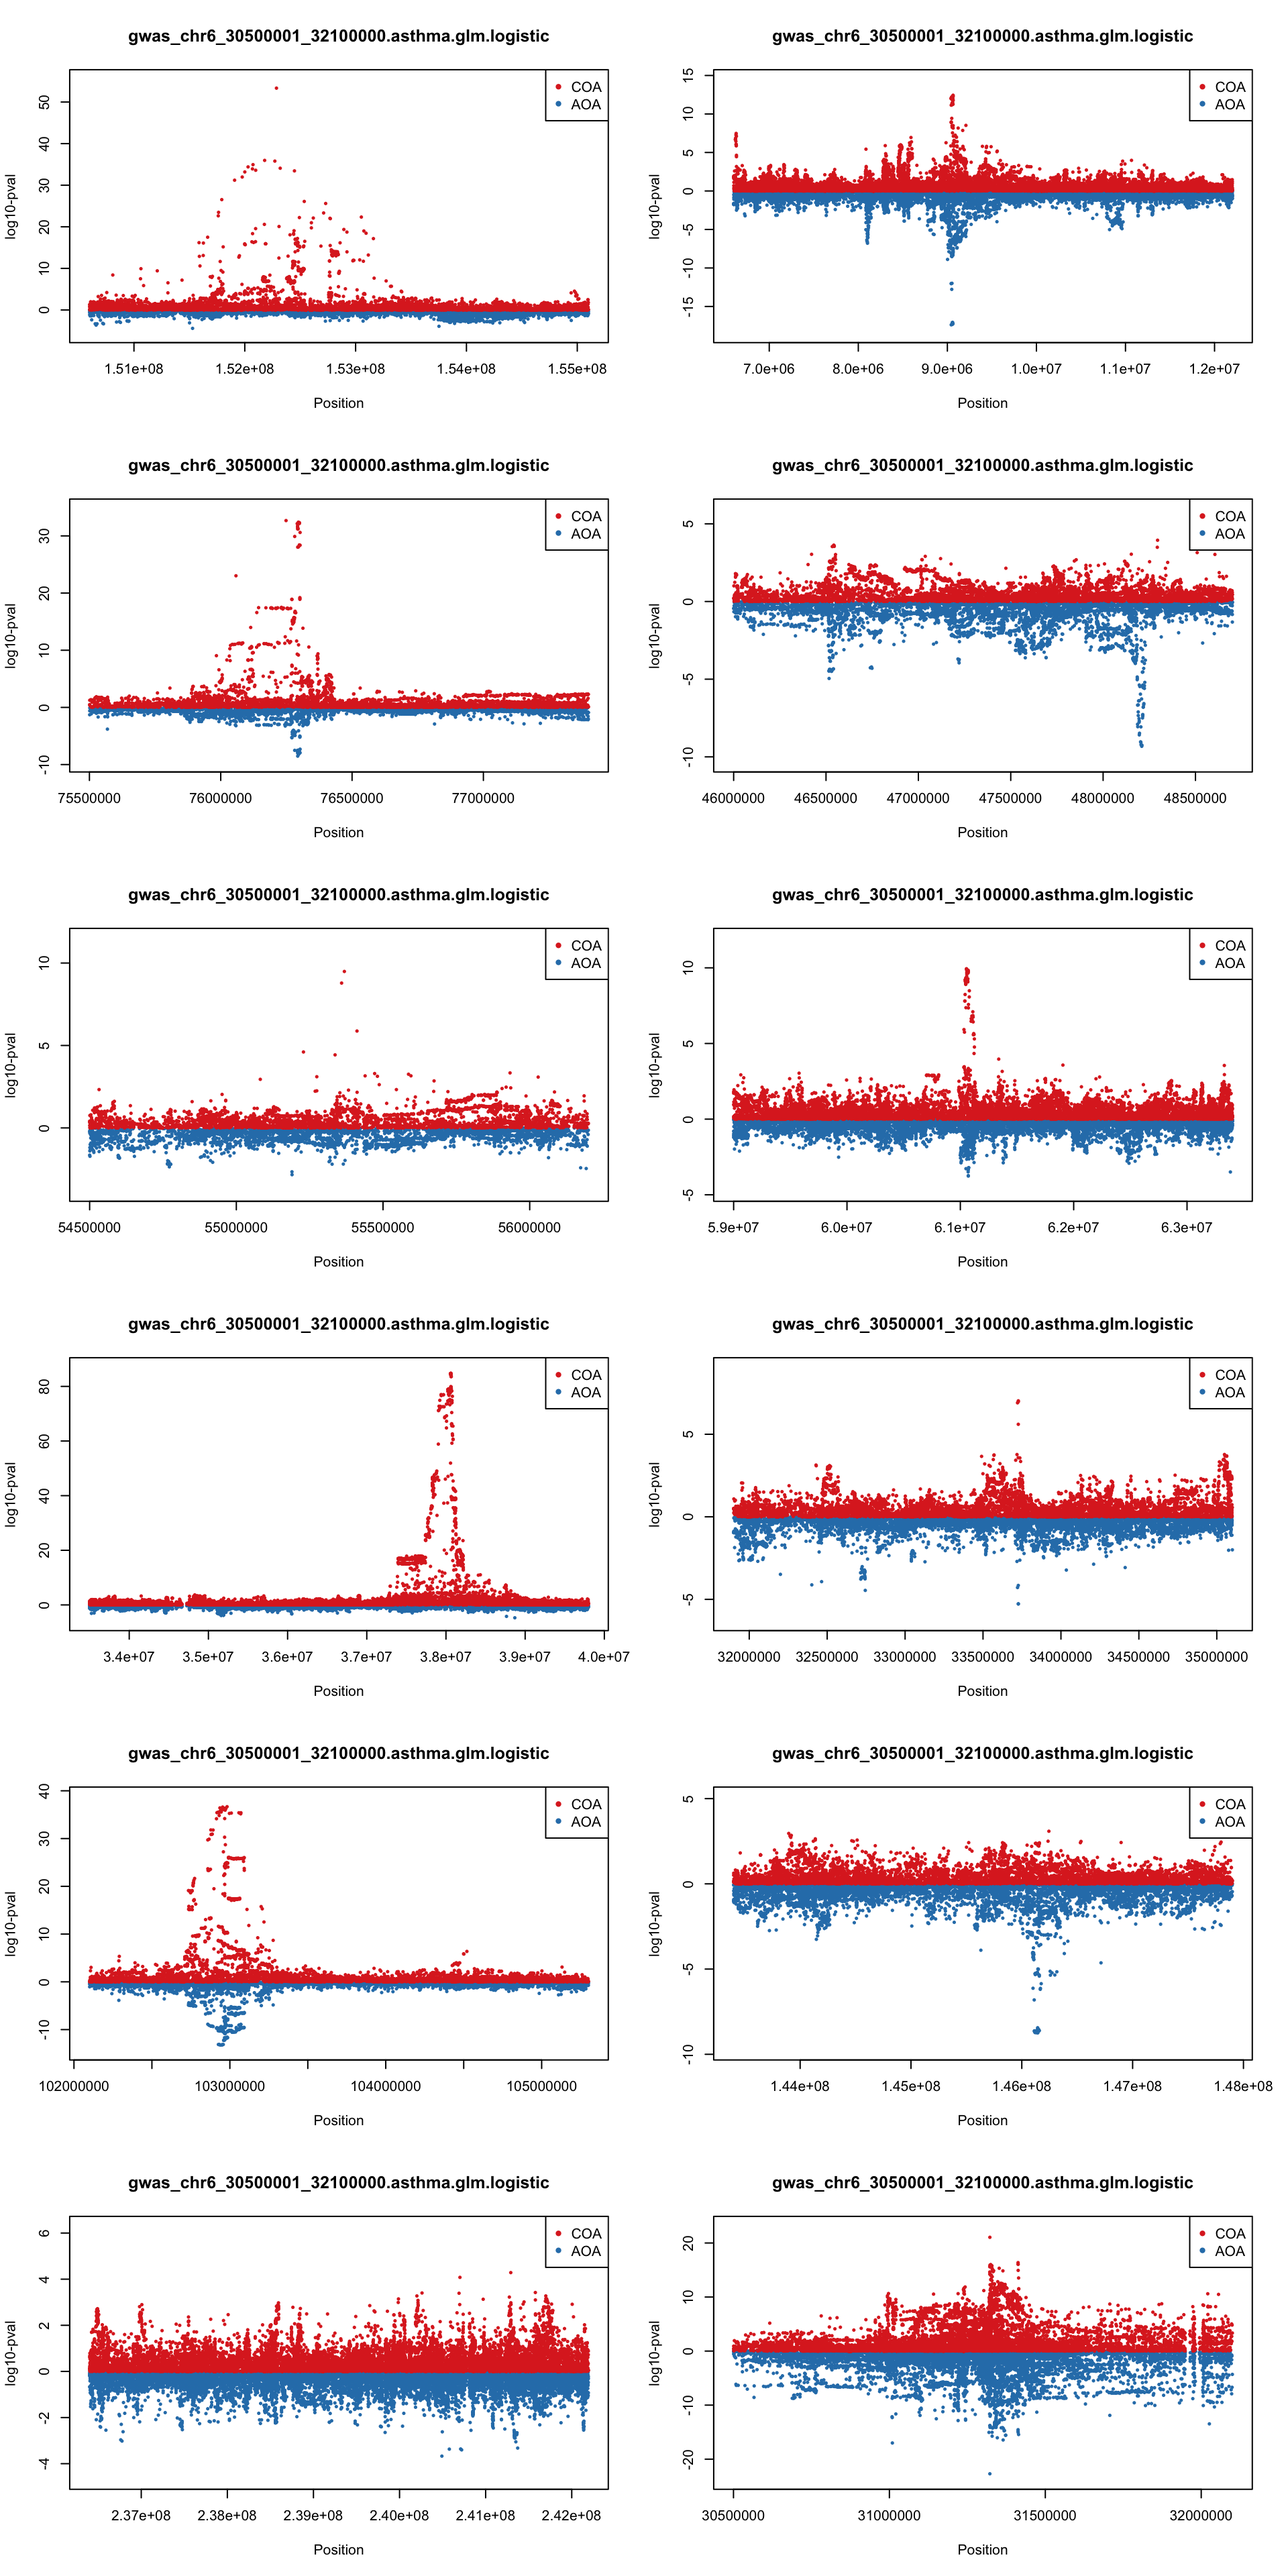
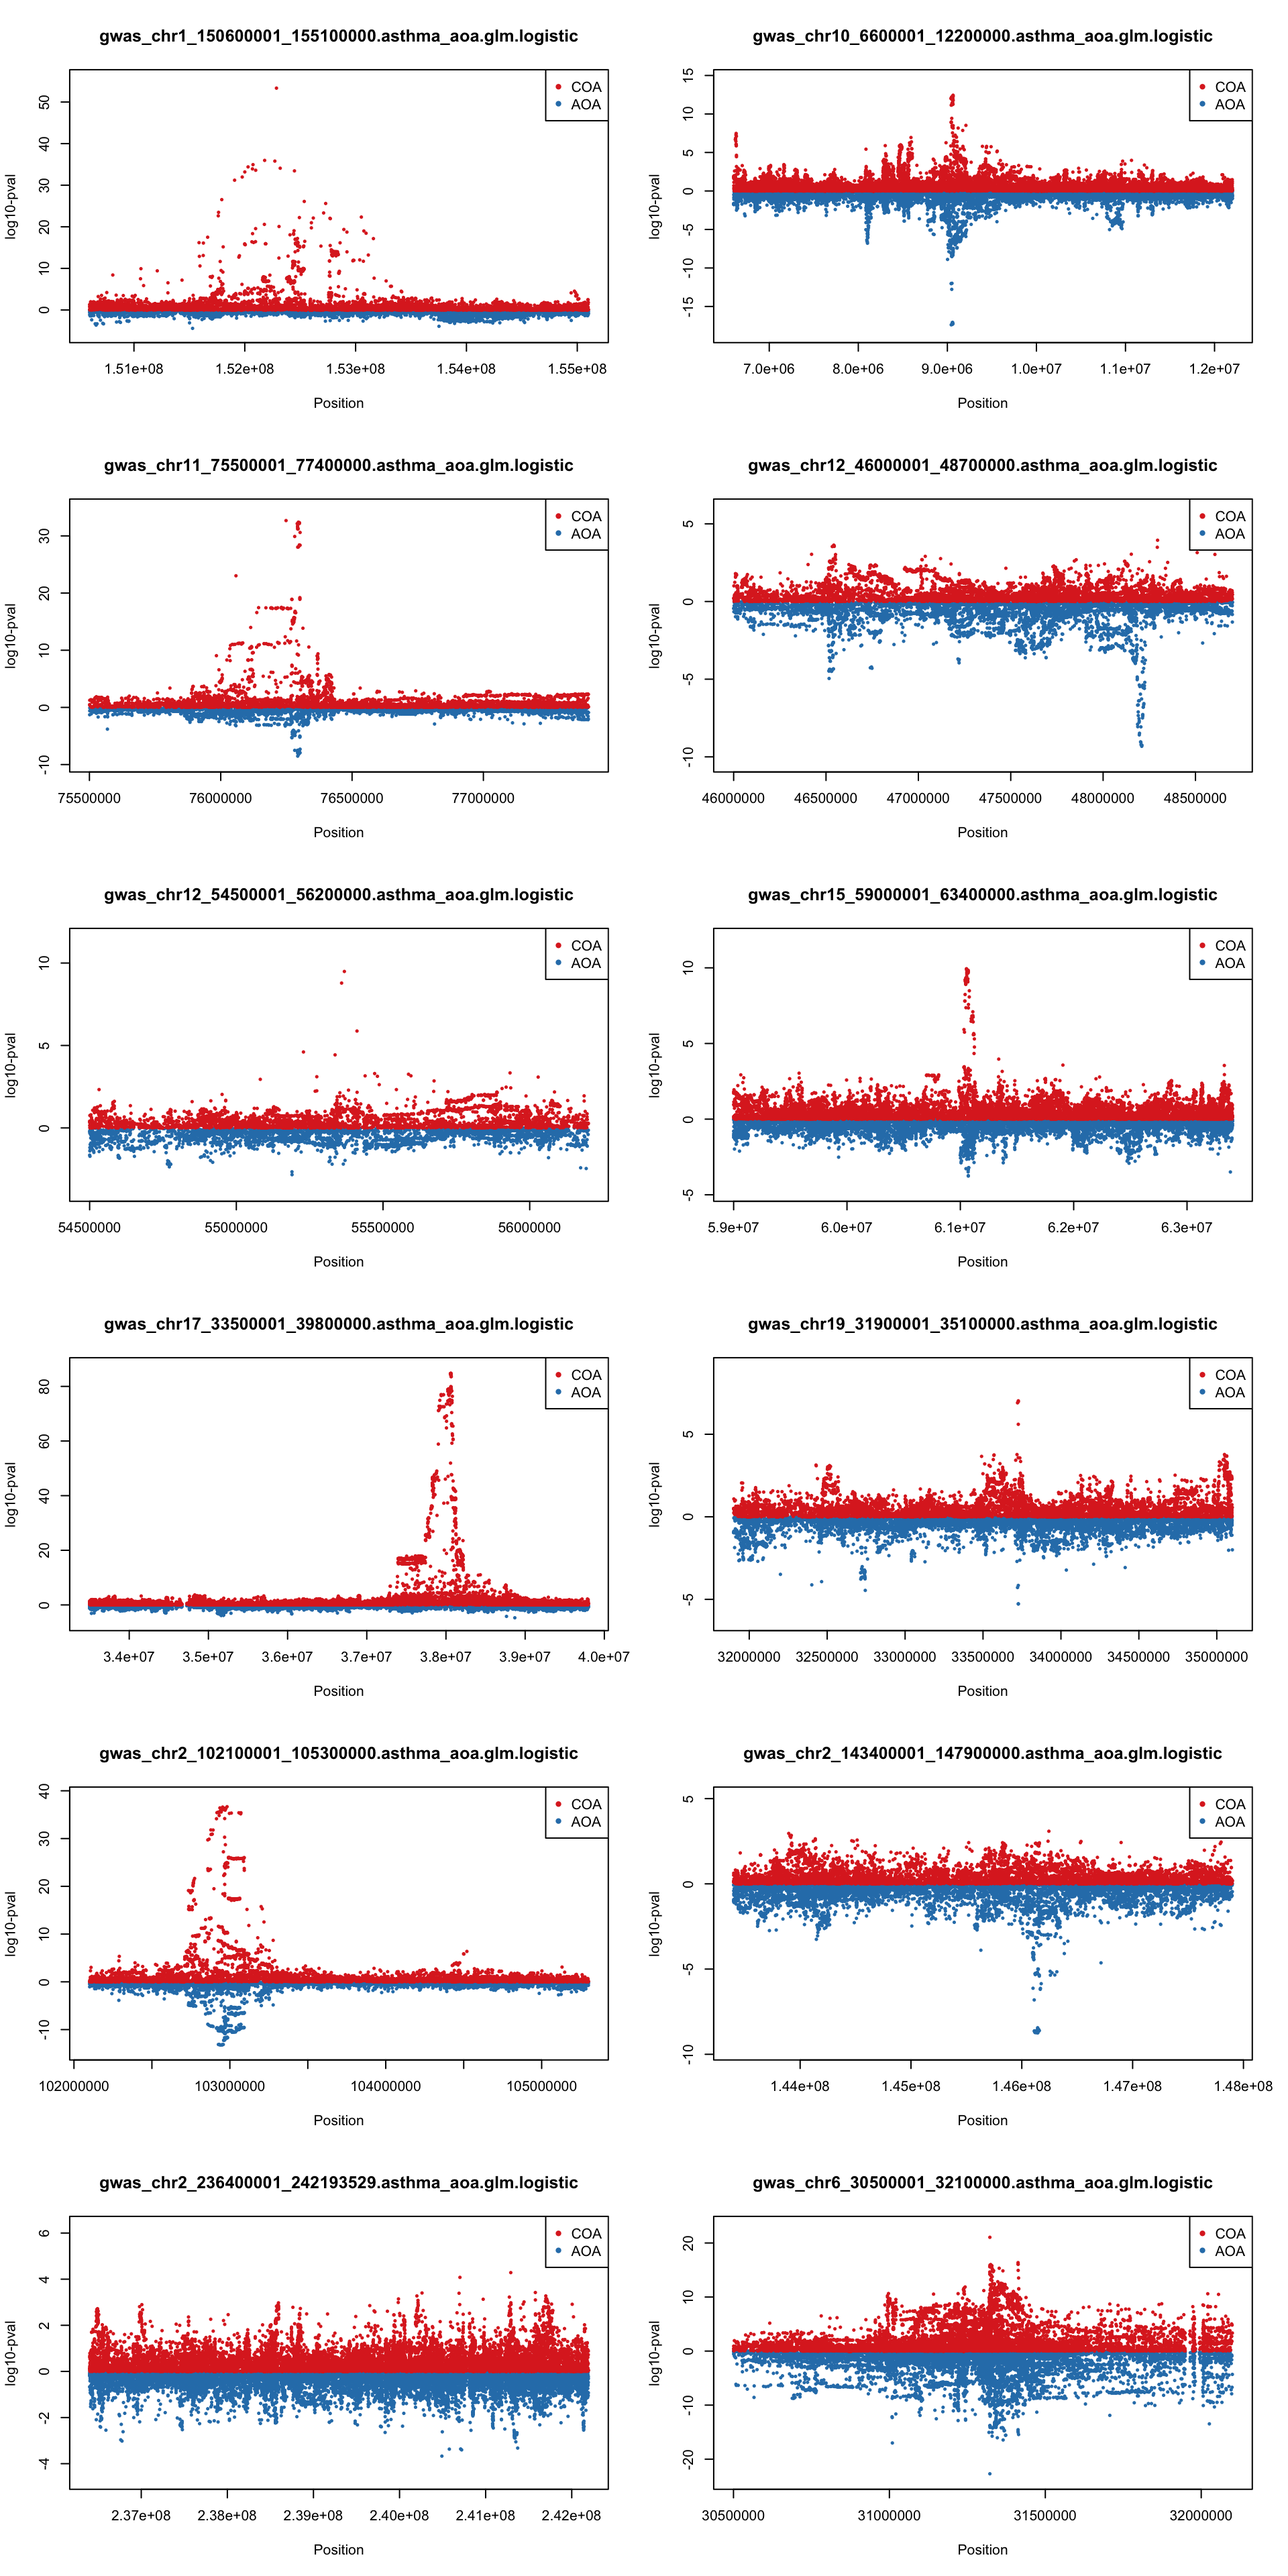
Build site.

diff --git a/docs/logistic_gwas_asthma.html b/docs/logistic_gwas_asthma.html
@@ -475,16 +475,16 @@ This reproducible <a href="http://rmarkdown.rstudio.com">R Markdown</a> analysis
 <div class="panel panel-default">
 <div class="panel-heading">
 <p class="panel-title">
-<a data-toggle="collapse" data-parent="#workflowr-checks" href="#strongRepositoryversionstrongahrefhttpsgithubcomyunqiyang0215survivaldataanalysistree2c785c777b1f59389775331ef323bcc0495cdb8atargetblank2c785c7a"> <span class="glyphicon glyphicon-ok text-success" aria-hidden="true"></span> <strong>Repository version:</strong> <a href="https://github.com/yunqiyang0215/survival-data-analysis/tree/2c785c777b1f59389775331ef323bcc0495cdb8a" target="_blank">2c785c7</a> </a>
+<a data-toggle="collapse" data-parent="#workflowr-checks" href="#strongRepositoryversionstrongahrefhttpsgithubcomyunqiyang0215survivaldataanalysistreef9fc5d95271e85f23fead53434da178a8e7b2a2ctargetblankf9fc5d9a"> <span class="glyphicon glyphicon-ok text-success" aria-hidden="true"></span> <strong>Repository version:</strong> <a href="https://github.com/yunqiyang0215/survival-data-analysis/tree/f9fc5d95271e85f23fead53434da178a8e7b2a2c" target="_blank">f9fc5d9</a> </a>
 </p>
 </div>
[2 lines of base64/hex data omitted]
 <div class="panel-body">
 <p>
 Great! You are using Git for version control. Tracking code development and connecting the code version to the results is critical for reproducibility.
 </p>
 <p>
-The results in this page were generated with repository version <a href="https://github.com/yunqiyang0215/survival-data-analysis/tree/2c785c777b1f59389775331ef323bcc0495cdb8a" target="_blank">2c785c7</a>. See the <em>Past versions</em> tab to see a history of the changes made to the R Markdown and HTML files.
+The results in this page were generated with repository version <a href="https://github.com/yunqiyang0215/survival-data-analysis/tree/f9fc5d95271e85f23fead53434da178a8e7b2a2c" target="_blank">f9fc5d9</a>. See the <em>Past versions</em> tab to see a history of the changes made to the R Markdown and HTML files.
 </p>
 <p>
 Note that you need to be careful to ensure that all relevant files for the analysis have been committed to Git prior to generating the results (you can use <code>wflow_publish</code> or <code>wflow_git_commit</code>). workflowr only checks the R Markdown file, but you know if there are other scripts or data files that it depends on. Below is the status of the Git repository when the results were generated:
@@ -532,6 +532,40 @@ Message
 </tr>
 </thead>
 <tbody>
+<tr>
+<td>
+Rmd
+</td>
+<td>
+<a href="https://github.com/yunqiyang0215/survival-data-analysis/blob/f9fc5d95271e85f23fead53434da178a8e7b2a2c/analysis/logistic_gwas_asthma.Rmd" target="_blank">f9fc5d9</a>
+</td>
+<td>
+yunqiyang0215
+</td>
+<td>
+2024-06-13
+</td>
+<td>
+wflow_publish("analysis/logistic_gwas_asthma.Rmd")
+</td>
+</tr>
+<tr>
+<td>
+html
+</td>
+<td>
+<a href="https://rawcdn.githack.com/yunqiyang0215/survival-data-analysis/df86570670756614c9e43e068354217a758e184a/docs/logistic_gwas_asthma.html" target="_blank">df86570</a>
+</td>
+<td>
+yunqiyang0215
+</td>
+<td>
+2024-06-13
+</td>
+<td>
+Build site.
+</td>
+</tr>
 <tr>
 <td>
 Rmd
@@ -646,7 +680,7 @@ yunqiyang0215
 for (i in 1:length(file.aoa)){
   region.aoa = file.aoa[i]
   region.coa = file.coa[i]
-  region_name = strsplit(region, &quot;/&quot;)[[1]][9]
+  region_name = strsplit(region.aoa, &quot;/&quot;)[[1]][9]
   gwas.aoa = read.csv(region.aoa, header = TRUE, sep = &quot;\t&quot;)
   gwas.coa = read.csv(region.coa, header = TRUE, sep = &quot;\t&quot;)
   ymin = min(log10(gwas.aoa$P)) - 1
@@ -678,6 +712,17 @@ Date
 </tr>
 </thead>
 <tbody>
+<tr>
+<td>
+<a href="https://github.com/yunqiyang0215/survival-data-analysis/blob/df86570670756614c9e43e068354217a758e184a/docs/figure/logistic_gwas_asthma.Rmd/unnamed-chunk-3-1.png" target="_blank">df86570</a>
+</td>
+<td>
+yunqiyang0215
+</td>
+<td>
+2024-06-13
+</td>
+</tr>
 <tr>
 <td>
 <a href="https://github.com/yunqiyang0215/survival-data-analysis/blob/516a9433443f0fcdf0df469ebda5c39742394eb7/docs/figure/logistic_gwas_asthma.Rmd/unnamed-chunk-3-1.png" target="_blank">516a943</a>
